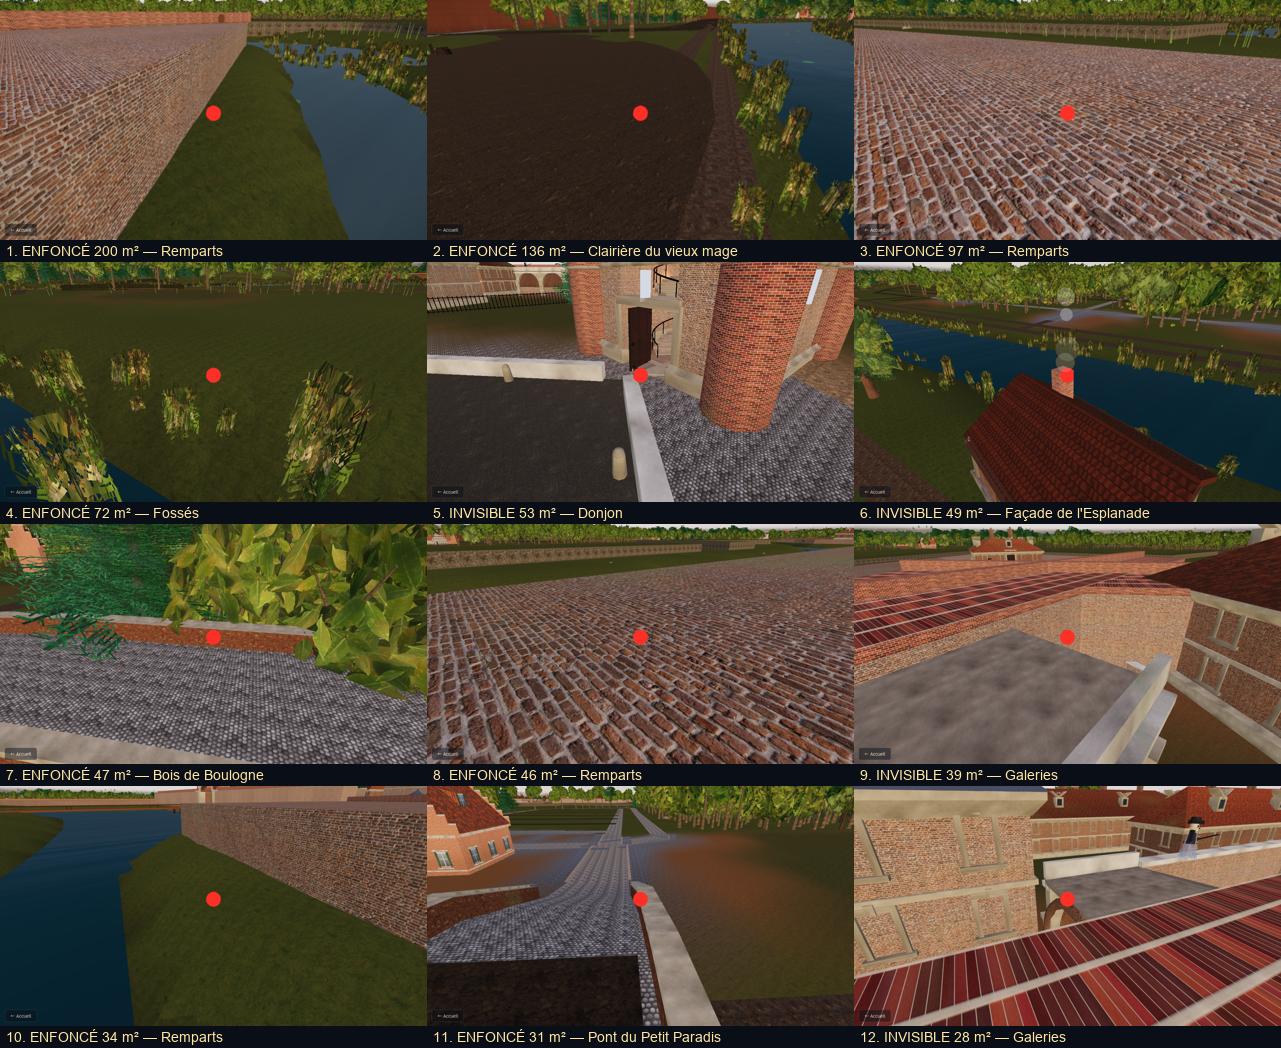
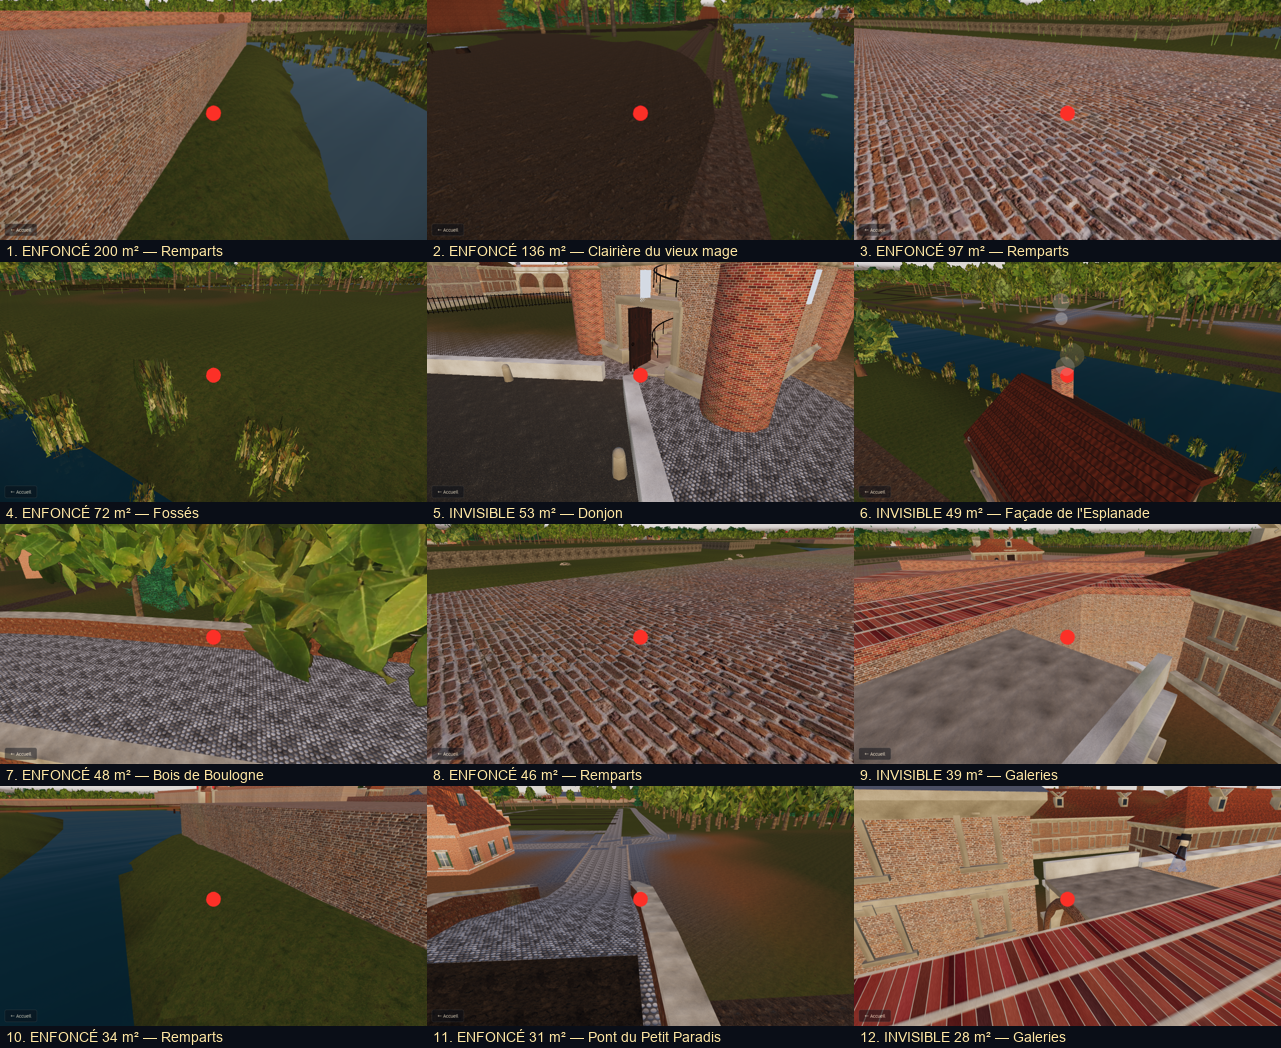
cours_irregulieres_haie_voie

diff --git a/quartier.js b/quartier.js
@@ -573,12 +573,17 @@ function dansCour(x, z) {
   for (let i = 0; i < l.length; i += 4) if (l[i + 3] <= COUR_DEMI && Math.hypot(l[i] - x, l[i + 1] - z) < 2) return true;
   return false;
 }
-// Un lot rectangulaire recule chaque mur qui passe à moins de COUR_DEMI de l'axe d'une cour.
-// Renvoie vrai s'il a reculé, faux sinon, null s'il y perdrait près de la moitié de sa
-// profondeur (on ne l'élève pas : la cour s'élargit d'autant).
+// Un lot recule chaque mur qui passe à moins du dégagement de l'axe d'une voie (COUR_DEMI
+// pour une cour ou un sentier, la demi-chaussée pour une rue). Renvoie vrai s'il a reculé,
+// faux sinon, null s'il y perdrait près de la moitié de sa largeur (on ne l'élève pas : la
+// cour s'élargit d'autant). Rectangles ET contours relevés irréguliers : ceux-ci restaient
+// en place et resserraient la cour Notre-Dame et une ruelle près du bourg. Chaque sommet
+// va à l'intersection des deux murs voisins déplacés (ajouter les deux décalages, c'était
+// pousser deux fois un sommet entre deux murs presque alignés).
 const COUR_DEMI = 1.2;
 function degagerCour(PA) {
-  if (PA.poly.length !== 4 || !COURS) return false;
+  const n = PA.poly.length;
+  if (n < 3 || !COURS) return false;
   // des copies : le contour d'un lot entier EST celui du relevé (IGN.bati), partagé
   const q = PA.poly.map((v) => v.slice()), r = { ...PA.r };
   let x0 = Infinity, x1 = -Infinity, z0 = Infinity, z1 = -Infinity;
@@ -590,25 +595,42 @@ function degagerCour(PA) {
   }
   if (!pts.length) return false;
   const sens = aireSignee(q) < 0 ? -1 : 1;
+  // la place qu'on peut prendre : pour un rectangle, la profondeur ; sinon la plus petite
+  // largeur de la boîte orientée du lot
+  const largeur = n === 4 ? null : Math.min(r.L, r.W);
+  const bes = new Float64Array(n), N = [];
   let bouge = false;
-  for (let i = 0; i < 4; i++) {
-    const a = q[i], c = q[(i + 1) % 4], L = Math.hypot(c[0] - a[0], c[1] - a[1]); if (L < 0.05) continue;
+  for (let i = 0; i < n; i++) {
+    const a = q[i], c = q[(i + 1) % n], L = Math.hypot(c[0] - a[0], c[1] - a[1]);
+    if (L < 0.05) { N.push([0, 0]); continue; }
     const tx = (c[0] - a[0]) / L, tz = (c[1] - a[1]) / L, nx = tz * sens, nz = -tx * sens;   // normale sortante
+    N.push([nx, nz]);
     let besoin = 0;
     for (let k = 0; k < pts.length; k += 3) {
       const ex = pts[k] - a[0], ez = pts[k + 1] - a[1], le = ex * tx + ez * tz, d = ex * nx + ez * nz, dg = pts[k + 2];
       if (le > -0.3 && le < L + 0.3 && d > -0.01 && d < dg) besoin = Math.max(besoin, dg - d);
     }
     if (besoin <= 0.02) continue;
-    const b2 = q[(i + 2) % 4], prof = Math.hypot(b2[0] - c[0], b2[1] - c[1]);
-    if (besoin > prof * 0.45) return null;
-    a[0] -= nx * besoin; a[1] -= nz * besoin; c[0] -= nx * besoin; c[1] -= nz * besoin;
-    if (Math.abs(nx * r.ux + nz * r.uz) > 0.7) r.L -= besoin; else r.W -= besoin;
-    r.cx -= nx * besoin / 2; r.cz -= nz * besoin / 2; r.A = r.L * r.W; PA.aire = r.A;
-    bouge = true;
+    const place = largeur ?? Math.hypot(q[(i + 2) % n][0] - c[0], q[(i + 2) % n][1] - c[1]);
+    if (besoin > place * 0.45) return null;
+    bes[i] = besoin; bouge = true;
+    if (Math.abs(nx * r.ux + nz * r.uz) > 0.7) r.L -= besoin; else if (Math.abs(nx * r.ux + nz * r.uz) < 0.3) r.W -= besoin;
+    r.cx -= nx * besoin / 2; r.cz -= nz * besoin / 2;
   }
-  if (bouge) { PA.poly = q; PA.r = r; }
-  return bouge;
+  if (!bouge) return false;
+  const neuf = q.map((v, i) => {
+    const e1 = (i - 1 + n) % n, e2 = i, b1 = bes[e1], b2 = bes[e2];
+    if (!b1 && !b2) return v;
+    const [n1x, n1z] = N[e1], [n2x, n2z] = N[e2];
+    // intersection des droites  (P − v)·n1 = −b1  et  (P − v)·n2 = −b2
+    const det = n1x * n2z - n1z * n2x;
+    if (Math.abs(det) < 0.2) { const b = Math.max(b1, b2), mx = n1x + n2x, mz = n1z + n2z, m = Math.hypot(mx, mz) || 1; return [v[0] - mx / m * b, v[1] - mz / m * b]; }
+    const dx = (-b1 * n2z + b2 * n1z) / det, dz = (-b2 * n1x + b1 * n2x) / det;
+    return [v[0] + dx, v[1] + dz];
+  });
+  if (aireSignee(neuf) * sens < aireSignee(q) * sens * 0.4) return null;   // le contour s'est retourné ou effondré
+  r.A = r.L * r.W; PA.aire = r.A; PA.poly = neuf; PA.r = r;
+  return true;
 }
 const RMUR = 0.3;                // rayon des capsules de façade (cf. « collisions » dans batirQuartier)
 export function batirQuartier() {

diff --git a/campagne.js b/campagne.js
@@ -1228,8 +1228,11 @@ export function buildRoute() {
         if (Math.max(a[0], b[0]) < bx0 - m || Math.min(a[0], b[0]) > bx1 + m || Math.max(a[1], b[1]) < bz0 - m || Math.min(a[1], b[1]) > bz1 + m) continue;
         voies.push([a[0], a[1], b[0], b[1], demi(o) + 0.8]);
       }
-    // la voie des combattants n'est pas un relevé : elle croise la route au sortir du pont
-    { const V = VOIE_C || []; for (let i = 0; i < V.length - 1; i++) voies.push([V[i][0], V[i][1], V[i + 1][0], V[i + 1][1], 2.1 + 0.8]); }
+    // la voie des combattants n'est pas un relevé : elle croise la route au sortir du pont, puis
+    // la LONGE sur une quarantaine de mètres — la haie s'y retrouvait coincée entre les deux, un
+    // couloir de verdure d'un mètre. Là où elle passe à moins de 3,5 m du bord de la voie, la
+    // haie s'interrompt : route et promenade ne font plus qu'un seul espace ouvert.
+    { const V = VOIE_C || []; for (let i = 0; i < V.length - 1; i++) voies.push([V[i][0], V[i][1], V[i + 1][0], V[i + 1][1], 2.1 + 3.5]); }
     const surUneVoie = (x, z) => voies.some(([ax, az, cx, cz, d]) => distSeg(x, z, ax, az, cx, cz) < d);
     for (const c of [-1, 1]) {
       let debut = null;

diff --git a/PROMPT-REPRISE.md b/PROMPT-REPRISE.md
@@ -706,7 +706,7 @@ bien.
 - **Obstacles sur l'axe des chemins** (revue : capsules à moins de 0,3 m de l'axe des voies
   relevées, de la voie des combattants et de la route du pont, avec leur ligne d'origine) :
   - arbres d'alignement de la voie des combattants sur les allées qui la croisent, sur la
-    route du pont et dans ses propres virages (`bordVoie`, promenade.js : 480 → 374 arbres) ;
+    route du pont et dans ses propres virages (`bordVoie`, promenade.js : 480 → 365 arbres) ;
     bancs idem ; ornières moins noires ; bancs et claire-voie de l'entrée du parc en bois
     photographié ; **pavés de l'entrée du parc** à la bonne échelle (un seul motif étalé sur
     20 m : des pavés ronds d'un mètre et demi) ;
@@ -721,10 +721,11 @@ bien.
   - citadelle : les voies relevées (le parc d'aujourd'hui) ne se dessinent plus dans l'emprise
     de la place et des fossés (`rubanGeo`, `bandesGeo`) ; le pont de la Porte Royale en
     planches et chêne photographiés.
-- **Restent** (vérifiés, sans gêne) : la polyligne brute de `roadPts()` passe près des haies,
-  mais la route DESSINÉE est une courbe lissée (`rte`) qui les longe ; des façades de contour
-  irrégulier (non rectangulaires : on ne sait pas les reculer) au bord de deux petites voies
-  (cour Notre-Dame ; 294, 671) ; le bout du monde rue de l'Arc (`foret.js:530`).
+- Puis : les contours irréguliers reculent aussi (`degagerCour`, chaque sommet à
+  l'intersection des deux murs voisins déplacés) — cour Notre-Dame et une ruelle près du
+  bourg dégagées ; et la haie s'interrompt là où la voie des combattants longe la route à
+  moins de 3,5 m (elle y était coincée entre les deux). Reste le bout du monde rue de l'Arc
+  (`foret.js:530`), voulu.
 - Chargement : A/B entrelacé de l'étape « quartier », ancien contre nouveau : minimum 2 630
   contre 2 385 ms (le filtre par boîte avant le test de polygone). Somme des étapes 12,5 à
   18,6 s sur quatre passages, la machine chargée (la préparation du rendu, inchangée, variait
